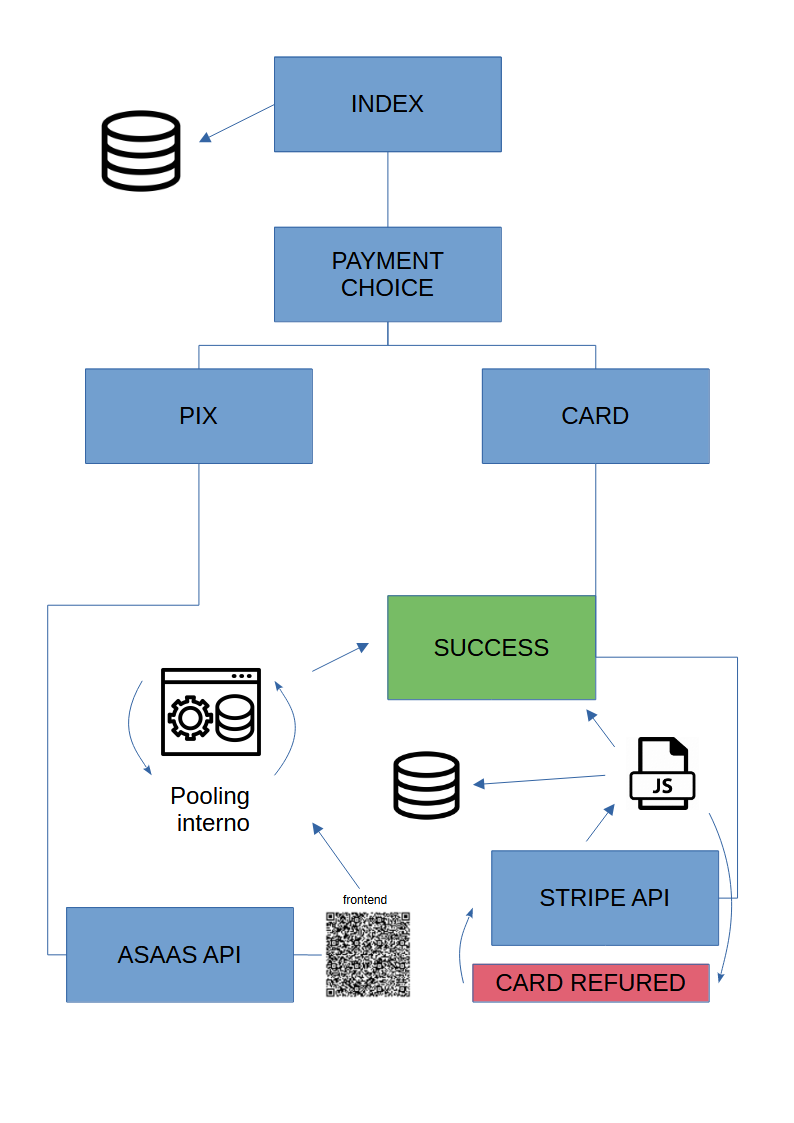
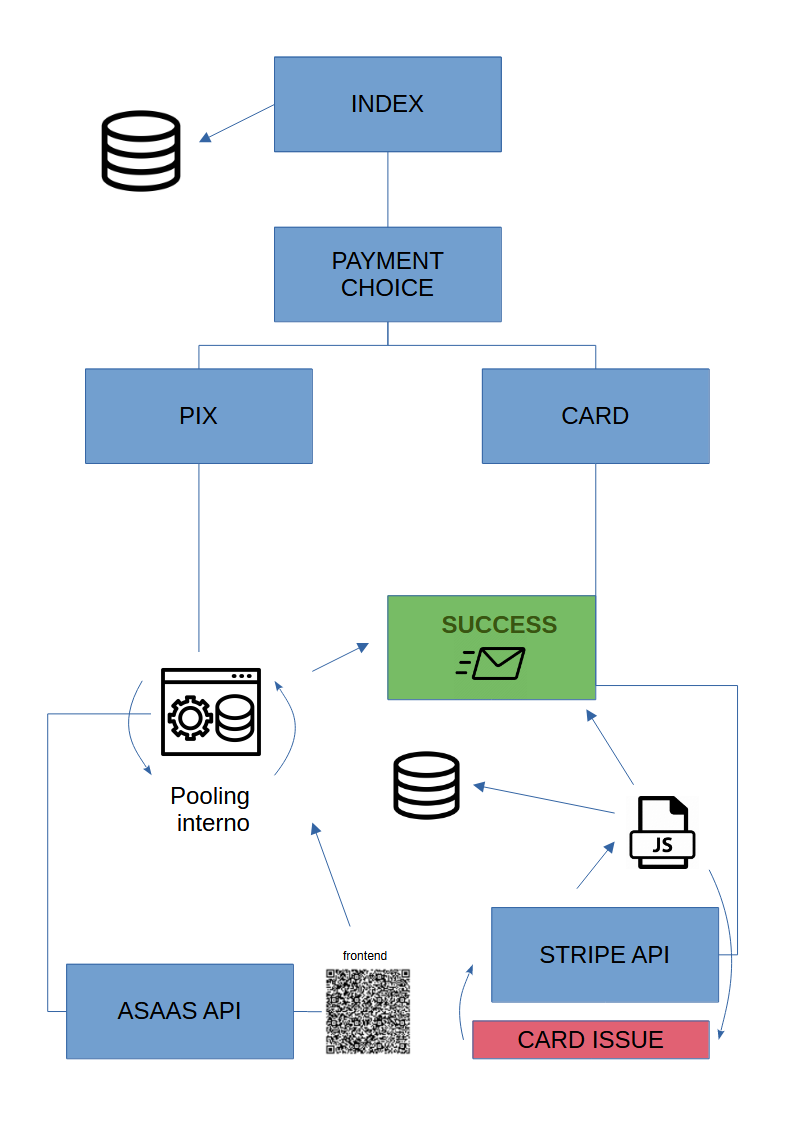
Flowchart added and README updated

diff --git a/README.md b/README.md
@@ -1,16 +1,22 @@
 
 # Projeto Rifa
 
-#### Apresentação
+Rifa é um projeto de tese (ou Trabalho de Conclusão de Curso - TCC).
 
-Rifa é um projeto de tese (ou Trabalho de Conclusão de Curso - TCC). O sistema foi concebido em Laravel.
-#### Diagrama de Fluxo de Requisições
+### Diagrama de Fluxo de Requisições
 
-![Diagrama de Fluxo de Requisições](https://github.com/izanoth/Rifa-Project/flowchart_rifa.webp)
+![Diagrama de Fluxo de Requisições](https://github.com/izanoth/Rifa-Project/blob/master/flowchart_rifa.webp)
 
-#### APIs Usadas
+### Tecnologias
+- JS, Jquery, Bootstrap, Node.js/NPM
+- PHP Laravel, MySQL, Mailpit
+- Ngrok e Postman para testar os endpoints em abiente de desenvolvimento
+
+### APIs Usadas
 - **Criação**: Endpoint para registro e verificação de token.
 - **Pagamentos**: Endpoints, internos e externos, para processar pagamentos via Stripe ou Asaas.
+
+
 
 
 <p align="center"><a href="https://laravel.com" target="_blank"><img src="https://raw.githubusercontent.com/laravel/art/master/logo-lockup/5%20SVG/2%20CMYK/1%20Full%20Color/laravel-logolockup-cmyk-red.svg" width="200" alt="Laravel Logo"></a></p>
